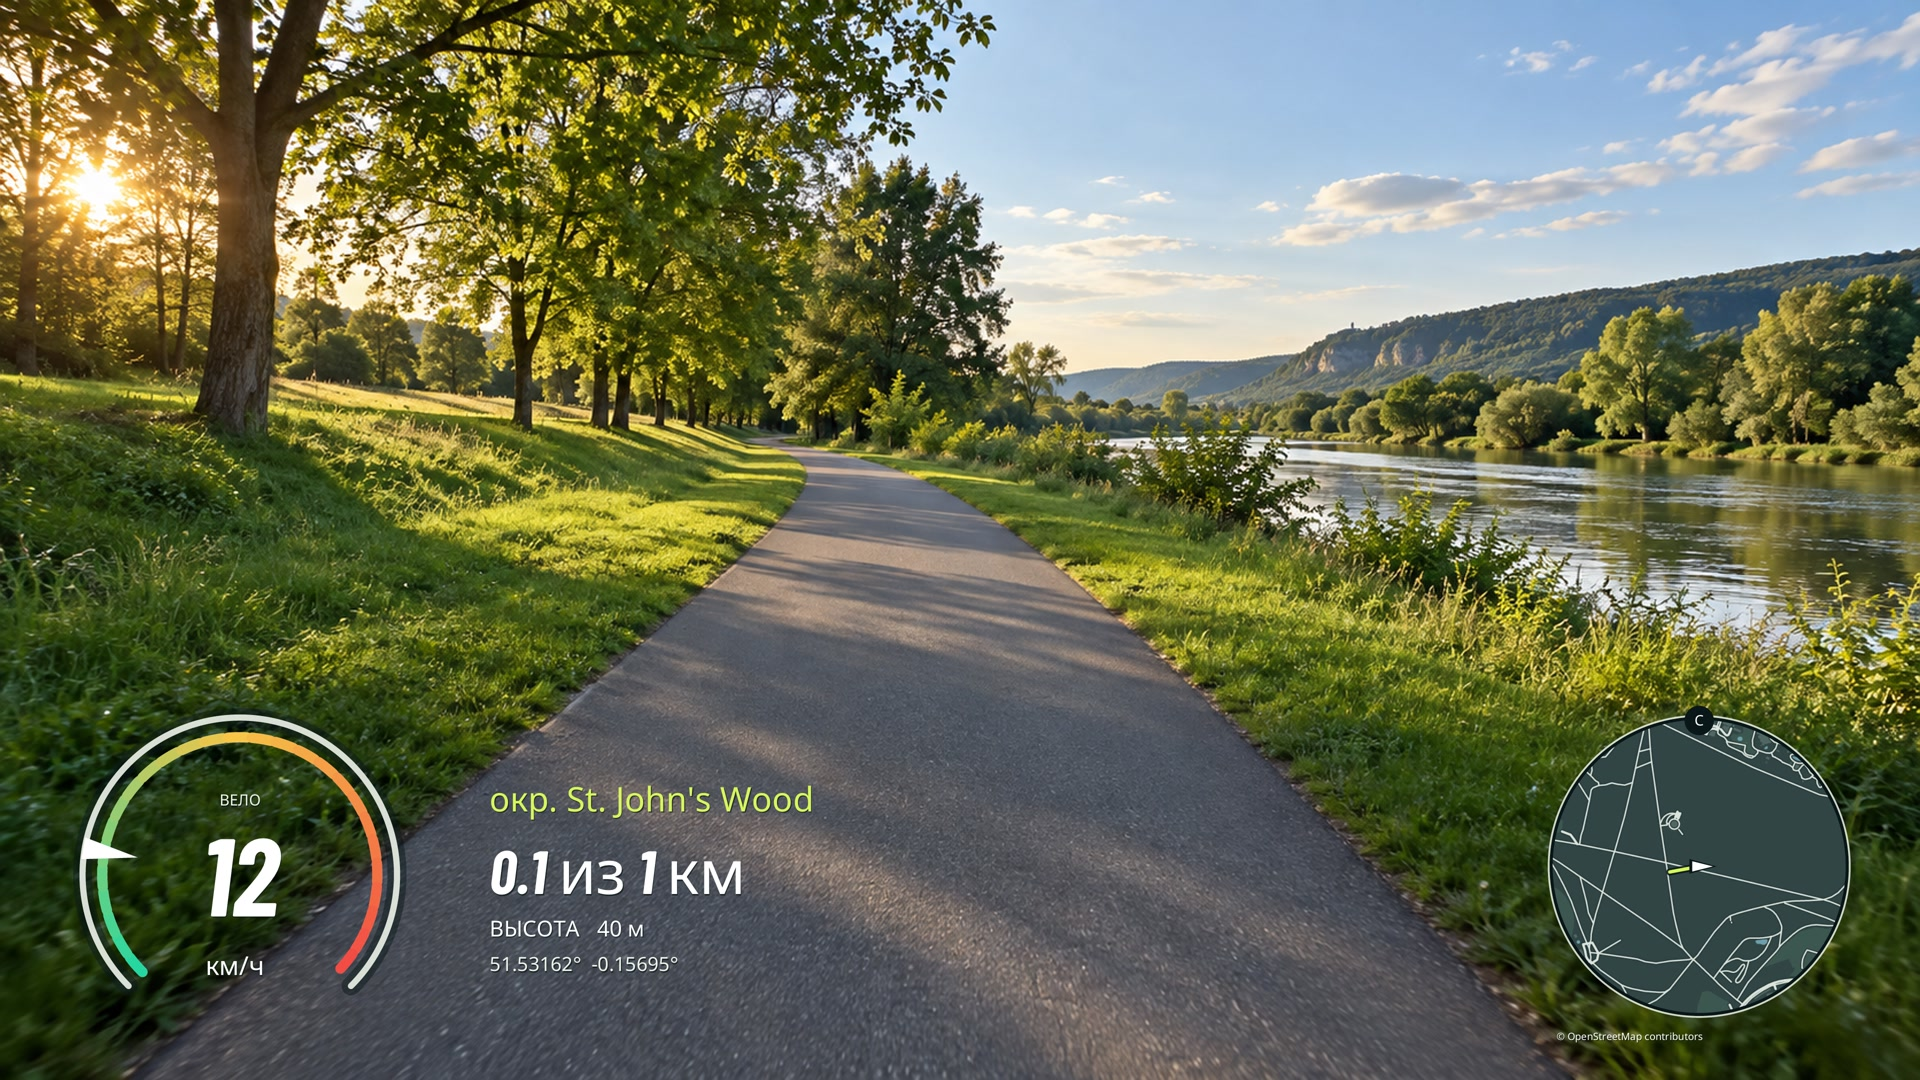
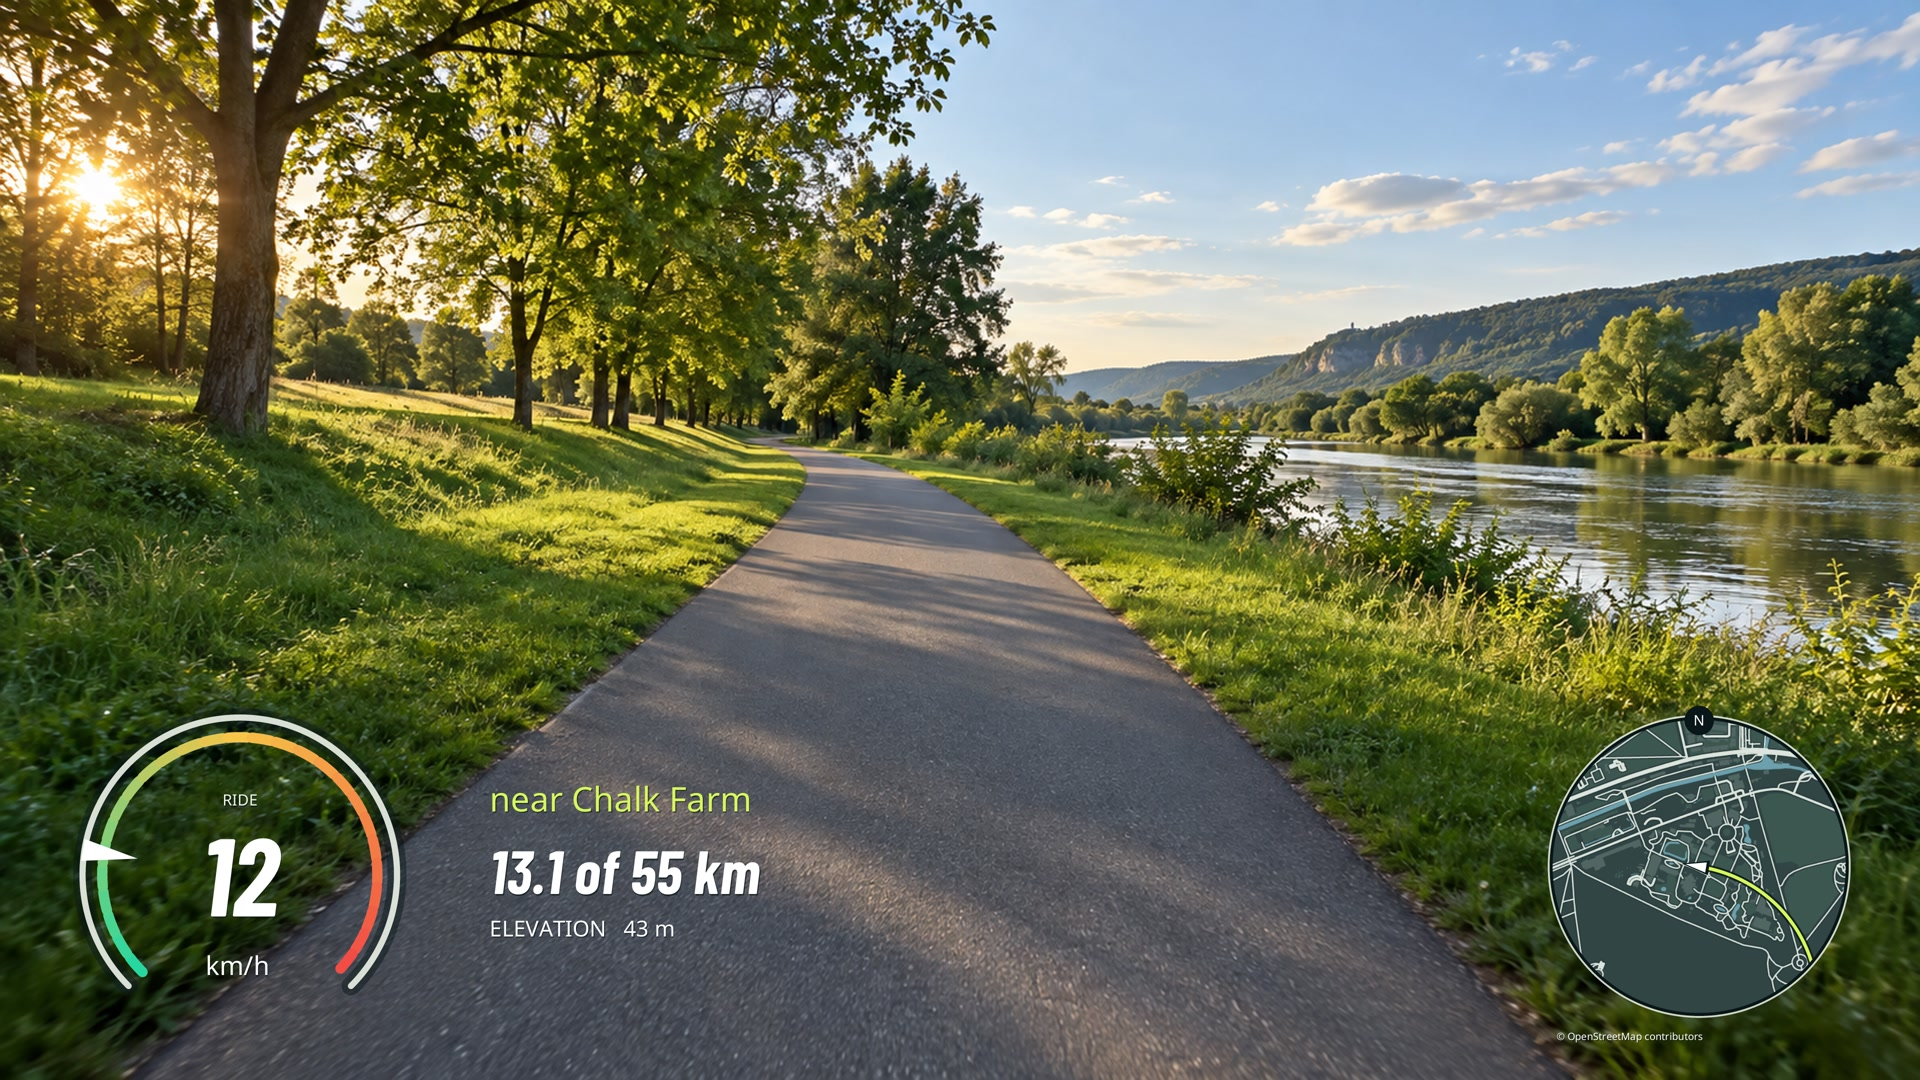
Focus on video processing with English OSM previews and optional coordinates

Changed region(s): [[0.8125, 0.6722, 0.9688, 0.9167], [0.25, 0.7333, 0.4375, 0.9167], [0.0938, 0.8861, 0.1562, 0.9167]]

diff --git a/src/config.rs b/src/config.rs
@@ -165,7 +165,7 @@ impl Default for Config {
                 y: 0.72,
                 size: 0.32,
             },
-            show_coordinates: true,
+            show_coordinates: false,
             show_elevation: true,
             show_distance: true,
             show_location: true,

diff --git a/README.md b/README.md
@@ -1,14 +1,14 @@
 # gpx-to-video
 
-**Your ride, drawn over your footage.** A local Rust tool that turns a timed GPX or CSV into a clean bicycle dashboard: speed, a moving map, road name, elevation, coordinates, and distance through the ride.
+**Fast telemetry overlays for your cycling videos.** Process action-camera footage, including 4K video, with synchronized speed, an OSM minimap, road names, elevation, and ride distance. Built in Rust with FFmpeg and hardware-accelerated encoding on macOS.
 
-Point it at a folder of action-camera videos. It matches each clip's capture time to the track, renders the relevant part, and writes new videos to another folder. Or export a transparent layer for your video editor.
+Pass a folder of videos plus a timed GPX or CSV recording. It matches each clip's capture time to your ride, draws the relevant telemetry, and saves new videos to your output folder while retaining the supported source resolution, frame rate, and codec family. Frames stream directly into the encoder without intermediate image files. For editing workflows, export a transparent overlay instead.
 
 | Before | With the bicycle layer |
 | --- | --- |
-| ![Synthetic park scene before](docs/before.jpg) | ![Russian bicycle dashboard over the synthetic park scene](docs/after-ru.jpg) |
+| ![Synthetic park scene before](docs/before.jpg) | ![English bicycle dashboard with an actual OpenStreetMap minimap](docs/after-en.jpg) |
 
-The landscape and ride above are synthetic demonstrations. The demo map is labeled as synthetic. Production maps use OpenStreetMap data ([actual OSM preview](docs/after-osm.jpg)). No personal recordings are included.
+The landscape and telemetry above are synthetic demonstrations; the minimap and nearby place name use actual cached OpenStreetMap data around London. Repository previews use English labels. No personal recordings are included.
 
 ## Start here
 
@@ -34,7 +34,7 @@ Use a separate output directory. Filenames and subdirectories are retained. Orig
 
 A `.csv` export from SpiderRoute works in the same command. A planned GPX without point timestamps cannot be synchronized.
 
-**Defaults:** Russian labels, bicycle theme, 15 telemetry updates per second, OSM zoom 15, and a 60 km/h gauge. With a source video, its dimensions and constant frame rate are retained. Without a source, the canvas is 3840 × 2160, 16:9. Language: `--language en`.
+**Defaults:** Russian labels, bicycle theme, 15 telemetry updates per second, OSM zoom 15, and a 60 km/h gauge. Coordinates are hidden; enable them in the studio or with `show_coordinates = true` in TOML. With a source video, its dimensions and constant frame rate are retained. Without a source, the canvas is 3840 × 2160, 16:9. Language: `--language en`.
 
 ## Set up the look before rendering
 
@@ -56,7 +56,7 @@ gpx-to-video render --config theme.toml \
   --route ride.gpx --video ./camera-clips --output ./finished-videos
 ```
 
-[Russian layer, transparent 4K PNG](docs/overlay-ru.png) · [English layer, transparent 4K PNG](docs/overlay-en.png) · [English composite](docs/after-en.jpg)
+[English OSM layer, transparent 4K PNG](docs/overlay-en.png) · [Full-size English OSM composite](docs/after-en.jpg)
 
 For every setting, generate a complete editable file:
 

diff --git a/docs/ru.md b/docs/ru.md
@@ -15,7 +15,7 @@ target/release/gpx-to-video render --route ride.csv --video clip.mp4 \
   --output ./layers --overlay-only prores
 ```
 
-По умолчанию русский язык, велосипедная шкала до 60 км/ч и обновление графики 15 раз в секунду. Частота и размеры исходного ролика сохраняются для поддерживаемого видео с постоянной частотой кадров. Для самостоятельного слоя без видео размер по умолчанию 3840×2160; задайте `--duration` и при необходимости `--start`.
+По умолчанию русский язык, велосипедная шкала до 60 км/ч и обновление графики 15 раз в секунду. Координаты скрыты; включить их можно в редакторе или параметром `show_coordinates = true` в TOML. Частота и размеры исходного ролика сохраняются для поддерживаемого видео с постоянной частотой кадров. Для самостоятельного слоя без видео размер по умолчанию 3840×2160; задайте `--duration` и при необходимости `--start`.
 
 Сперва проверьте время командой `inspect clip.mp4`. Метаданные камеры не гарантируют верные часы. `--offset -5` исправляет камеру, спешащую на пять секунд; `--timings timings.json` задаёт начало и поправки отдельных файлов. Время без часового пояса не принимается. Фактические файлы Osmo Action 6 пока не проверялись: тесты используют искусственные 4K H.264/HEVC.
 

diff --git a/assets/README.md b/assets/README.md
@@ -5,6 +5,7 @@
 - `demo-background.png`: generated with the built-in ImageGen tool for this project, 2026-09-27. It depicts a fictional park, not a user's footage or private location. It is used only for documentation and synthetic test videos, never included in transparent layers. The generated image is upscaled for the 4K *video fixture*; gauge/text/map geometry are rendered natively at the requested output size.
 - All dashboard graphics are original configurable geometric drawing and font rendering. No game assets or reference screenshots are distributed.
 - OSM map data is fetched separately, cached outside git, and credited on the overlay. Map data © OpenStreetMap contributors, ODbL: https://www.openstreetmap.org/copyright.
+- The English README showcase (`docs/after-en.jpg`, also `docs/after-osm.jpg`) uses actual cached OSM geometry around London, with synthetic demo telemetry at 90 seconds. Regenerate the native transparent layer with `target/release/gpx-to-video preview --language en --map-source osm --output docs/overlay-en.png` (add `--cache` and `--offline` for an existing cache). Composite this over the generated background; keep the OSM credit visible. `docs/osm-overlay.png` is the same English layer.
 
 ## Demo background prompt
 

diff --git a/AGENTS.md b/AGENTS.md
@@ -27,6 +27,10 @@ The default theme is **bicycle**. Keep the gauge's green-to-yellow-to-red arc, w
 
 All palette and widget positioning choices should flow through typed configuration. Keep sizes relative to the canvas; do not hard-code a 1080p raster and upscale it. Changing map colors must not invalidate or redownload the raw OSM geometry. Keep attribution legible. A demo map must be labeled as synthetic.
 
+Public README showcase images use English labels and actual OSM geometry, never the synthetic grid map. Generate them with `preview --language en --map-source osm` using cached public-area data and synthetic telemetry. Keep the fictional background/demo readings explicitly identified and OSM attribution visible. This presentation rule does not change the application's default language.
+
+Coordinates are hidden by default (`show_coordinates = false`). Keep the optional control available and ensure documentation previews follow the default.
+
 ## Correctness and performance rules
 
 - Match telemetry by UTC timestamp, never row number or file modification date. Require an explicit offset on manually supplied dates. Keep clock corrections in per-job configuration, not source code.
